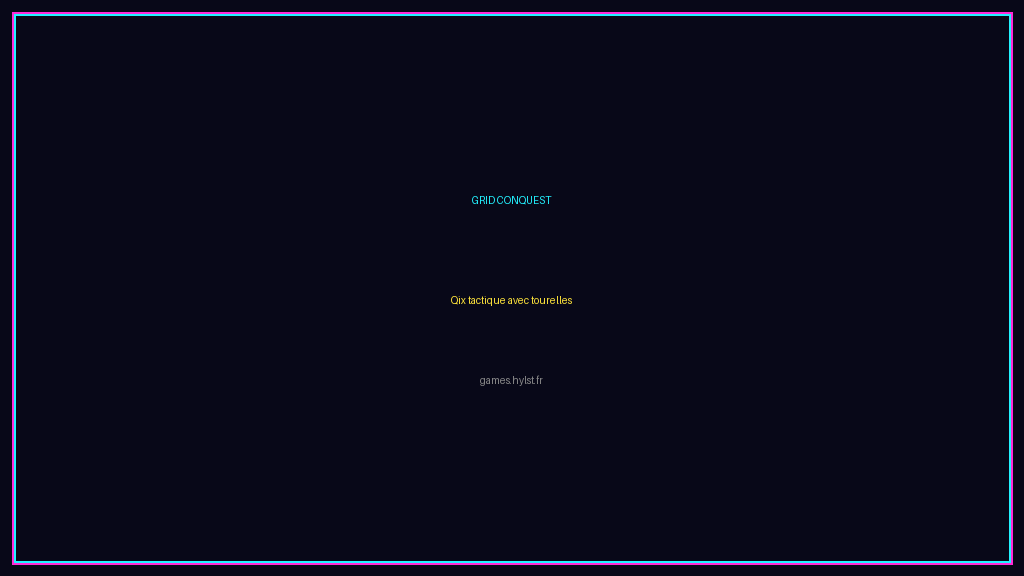
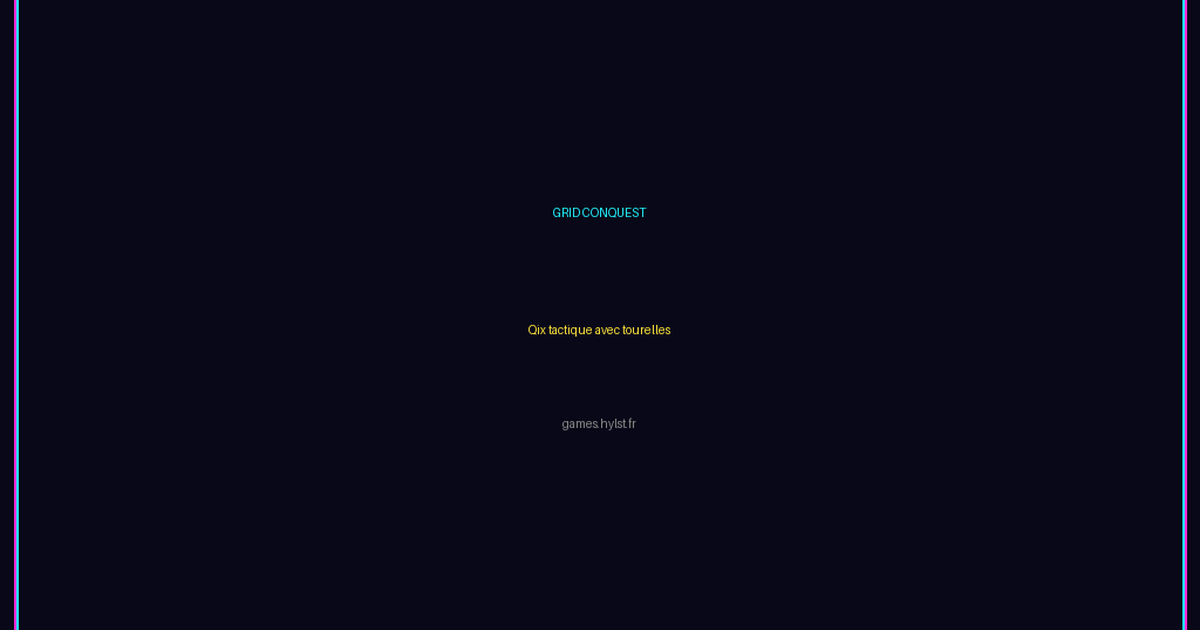
Open Graph : image 1200 x 630 et metadonnees completes

diff --git a/index.html b/index.html
@@ -7,14 +7,18 @@
     <meta name="description" content="Conquête de Grille : un jeu de puzzle tactique inspiré de Qix. Trace des lignes, conquiers du territoire et utilise des tourelles pour survivre." />
     <meta property="og:title" content="Conquête de Grille : Qix tactique avec tourelles" />
     <meta property="og:description" content="Conquête de Grille : un jeu de puzzle tactique inspiré de Qix. Trace des lignes, conquiers du territoire et utilise des tourelles pour survivre." />
-    <meta property="og:image" content="https://games.hylst.fr/gridconquest/og-image.png" />
+    <meta property="og:image" content="https://games.hylst.fr/gridconquest/og-image.png?v=2" />
+    <meta property="og:image:type" content="image/png" />
+    <meta property="og:image:width" content="1200" />
+    <meta property="og:image:height" content="630" />
+    <meta property="og:image:alt" content="Conquête de Grille" />
     <meta property="og:url" content="https://games.hylst.fr/gridconquest/" />
     <meta name="author" content="Hylst - développement assisté par IA" />
     <meta property="og:type" content="website" />
     <meta name="twitter:card" content="summary_large_image" />
     <meta name="twitter:title" content="Conquête de Grille : Qix tactique avec tourelles" />
     <meta name="twitter:description" content="Conquête de Grille : un jeu de puzzle tactique inspiré de Qix. Trace des lignes, conquiers du territoire et utilise des tourelles pour survivre." />
-    <meta name="twitter:image" content="https://games.hylst.fr/gridconquest/og-image.png" />
+    <meta name="twitter:image" content="https://games.hylst.fr/gridconquest/og-image.png?v=2" />
     <link rel="canonical" href="https://games.hylst.fr/gridconquest/" />
     <link rel="icon" type="image/webp" sizes="32x32" href="/gridconquest/favicon.webp" />
       <link rel="stylesheet" href="./fonts/fonts.css" />
